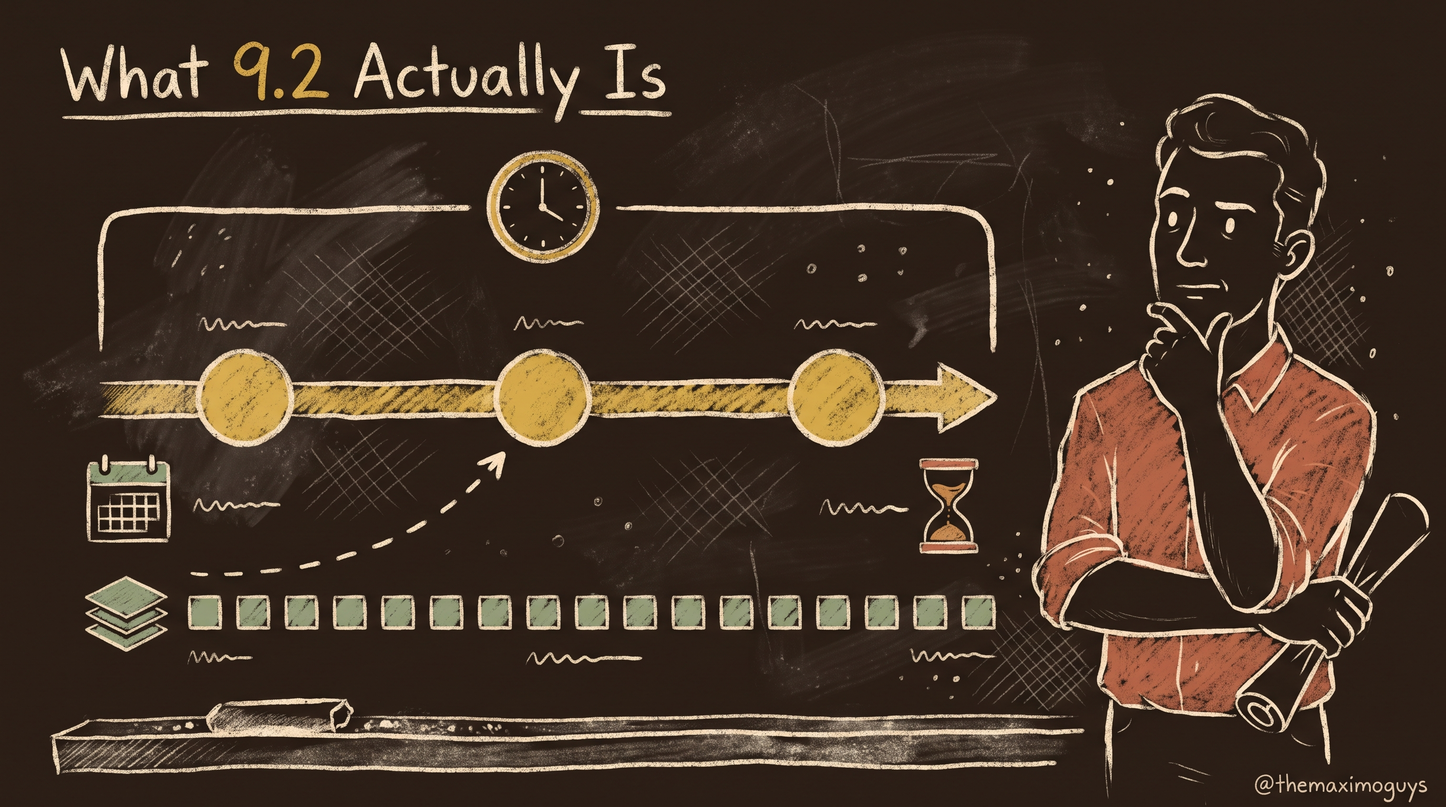
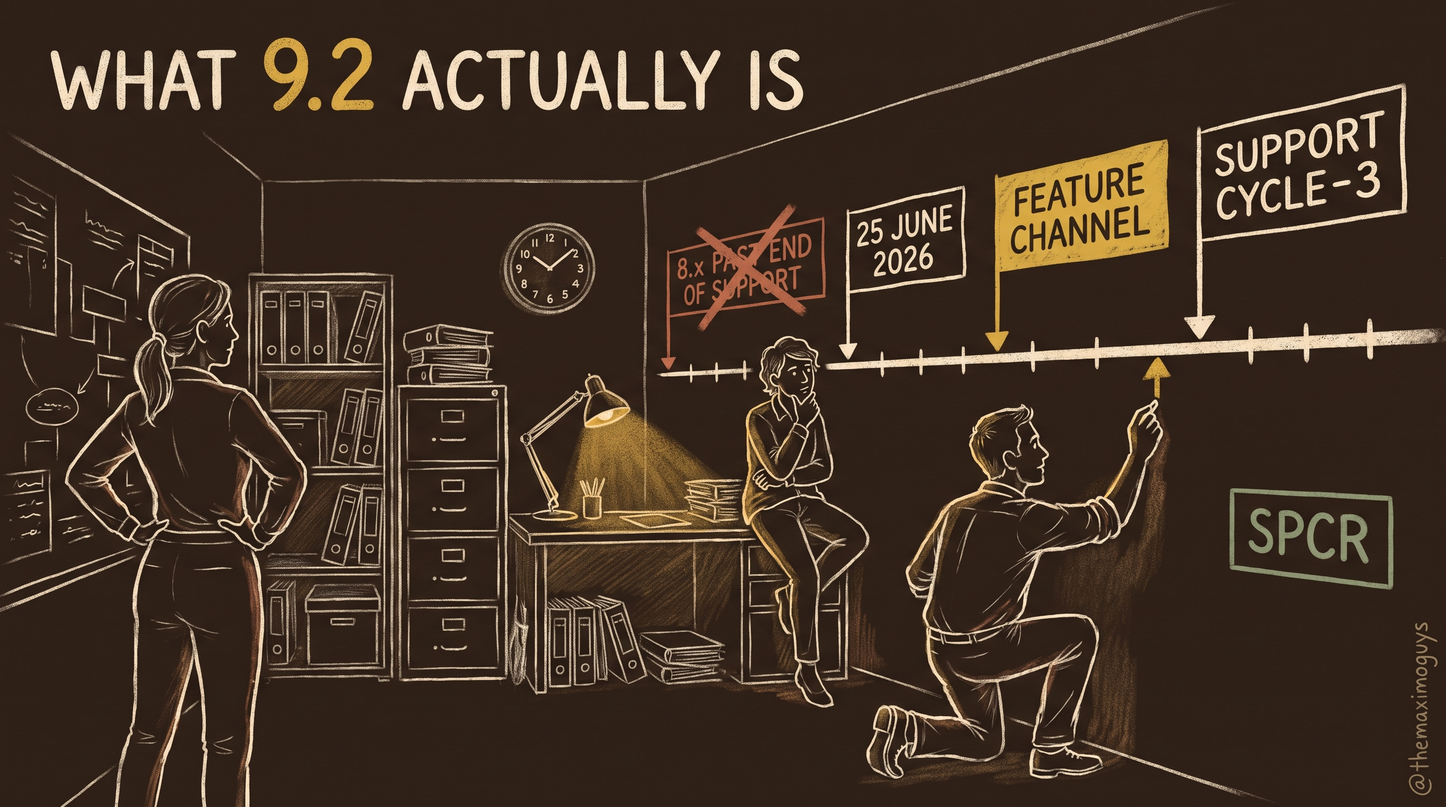
Regenerate MAS 9.2 covers with real readable labels
The 2026-08-12 covers were handsome but carried no information: every
board was filled with squiggle placeholders and tally strokes. Root
cause was the previous fix — prompts banned all board text to stop
hallucinated spelling, which removed the meaning along with the risk.

Inverted the constraint instead of loosening it: enumerate the exact
allowed label strings in a closed list, forbid any word outside it, and
separately ban squiggles and fake illegible handwriting. Result is 60+
labels across 8 covers with zero misspellings.

Every label string was pulled from the post's own headings and tables,
then re-verified against the source post before generating — which
caught an invented third evidence tier on the AI-layer cover (post 05
defines only two).

Originals archived under images/_archive/20260813-unlabeled/ with a
README. Filenames reused, so no MDX frontmatter changes.

Known blemish: cover 01 retains faint squiggle texture on the pinboard
at the extreme left edge.

diff --git a/MEMORY/WORK/20260813-080808_mas-92-covers-labeled-rework/PRD.md b/MEMORY/WORK/20260813-080808_mas-92-covers-labeled-rework/PRD.md
@@ -1,0 +1,136 @@
+---
+task: Rework MAS 9.2 covers with real readable labels
+slug: 20260813-080808_mas-92-covers-labeled-rework
+effort: advanced
+phase: verify
+progress: 26/27
+mode: interactive
+started: 2026-08-13T08:08:08-04:00
+updated: 2026-08-13T08:33:00-04:00
+iteration: 3
+---
+
+## Context
+
+The eight MAS 9.2 covers in `posts/MAS-9-2/images/` were generated 2026-08-12 in the
+approved warm-chalkboard style. Swetansh's verdict today: they read as **stale** and the
+concepts are **not understandable** because there are **no labels**.
+
+Verified by viewing `mas-92-00-series-index.png` and `mas-92-02-version-comparison.png`:
+every board panel is filled with **squiggle placeholder marks and tally strokes** plus
+generic icons (gear, robot, cloud, database, warning triangle). The scene is handsome and
+the style is right — but it carries zero information. Cover 02 is literally titled "Three
+Versions, One Table" and its three columns have scribbles where 9.0 / 9.1 / 9.2 should be.
+
+**Root cause:** the previous run over-corrected. To stop the model hallucinating misspelled
+words, the prompts banned all text except the title — see [[warm_chalkboard_cover_style]]
+prompt trap #1. Banning text removed the hallucination risk *and* the meaning.
+
+**The fix is the opposite constraint, not a looser one:** enumerate the exact label strings
+that must appear, in an explicit closed list, and forbid any word outside that list. That
+controls spelling *and* delivers concept.
+
+Every label string below was pulled from the post's own headings/tables, not invented.
+
+### Plan
+
+1. Archive all 8 originals to `images/_archive/20260813-unlabeled/` (sync resolves covers
+   by explicit frontmatter path only — verified in `scripts/sync-blog-to-sanity.ts:132-190`
+   — so a subfolder there is inert).
+2. Regenerate under the same 8 filenames so no MDX edit is needed.
+3. Generate cover 00 first, view it, confirm the label treatment lands, then batch 01-07.
+4. View every rendered PNG at full size before declaring done.
+
+### Label sets (closed lists — nothing outside these strings)
+
+- **00** "MAS 9.2 — THE GROUNDED READ": WHAT IT IS / 9.0 vs 9.1 vs 9.2 / INSIDE MANAGE /
+  OUTSIDE MANAGE / AI LAYER / UPGRADE RISK / DO YOU QUALIFY
+- **01** "WHAT 9.2 ACTUALLY IS": 25 JUNE 2026 / FEATURE CHANNEL / SUPPORT CYCLE-3 /
+  8.x PAST END OF SUPPORT / SPCR
+- **02** "THREE VERSIONS, ONE TABLE": 9.0 / 9.1 / 9.2 / AI / ABSENT / ASSISTIVE / AGENTIC /
+  JAVA / NOT STATED / JAVA 17 / JAVA 25  (facts verified at post 02 lines 96, 286)
+- **03** "INSIDE MANAGE 9.2": TICKETS / ALERTS / AI INSIGHTS / COLLABORATE / CALIBRATION /
+  TIME ZONES / JAVA 25
+- **04** "THE REST OF MAS 9.2": MONITOR / MVI / HEALTH / PREDICT / MAXIMO IT /
+  REAL ESTATE / HSE / AIP
+- **05** "THE AI LAYER, TIERED": DOCUMENTED / ANNOUNCED ONLY (**two** tier bands, corrected
+  mid-flight — post 05 lines 82-83 define exactly two tiers, a third was my invention) +
+  MCP SERVER / AGENTIC ASSISTANT / ALERT INSIGHTS / RAG LEASES (tier 1) +
+  CONDITION INSIGHT / FIELD SERVICE AI / INCIDENT CLASSIFICATION (tier 2)
+- **06** "RANKED BY HOW BADLY IT BITES": 1 DB2 12 LICENCE / 2 USER APIS GONE /
+  3 ADD-ON PARITY / 4 SCIM / 5 ONE-WAY SETTINGS / 6 JAVA 25 / 7 MVI GPUS / 8 THE SMALL ONES
+- **07** "DO YOU ACTUALLY QUALIFY?": CAN YOU MOVE? / SHOULD YOU MOVE? / GO / WAIT / STOP
+
+### Risks
+
+- Hallucinated spelling is the known failure mode — mitigated by closed lists + full-size view.
+- Too many labels turns a cover into an infographic, violating the 80/20 visual rule.
+  Mitigation: labels live on the drawn board *inside* the scene, people stay the subject.
+- nanobanana Pro 503s under load — retry, never fall back to Flash.
+
+## Criteria
+
+- [x] ISC-1: All 8 original covers moved to `_archive/20260813-unlabeled/`
+- [x] ISC-2: Archive folder carries README stating why
+- [x] ISC-3: All 8 new files reuse the exact original filenames
+- [x] ISC-4: No MDX file modified by this task
+- [x] ISC-5: Every cover is 16:9 landscape
+- [x] ISC-6: Every cover carries @themaximoguys bottom-right
+- [x] ISC-7: Every cover keeps espresso #2A1D14 ground
+- [x] ISC-8: Every cover generated at model_tier pro
+- [x] ISC-9: Cover 00 shows its 7 part labels legibly
+- [x] ISC-10: Cover 01 shows its 5 lifecycle labels legibly
+- [x] ISC-11: Cover 02 shows 9.0 / 9.1 / 9.2 column heads legibly
+- [x] ISC-12: Cover 02 shows the AI row values legibly
+- [x] ISC-13: Cover 02 shows the Java row values legibly
+- [x] ISC-14: Cover 03 shows its 7 Manage feature labels legibly
+- [x] ISC-15: Cover 04 shows its 8 product labels legibly
+- [x] ISC-16: Cover 05 shows **two** evidence-tier band labels legibly (criterion itself was
+      wrong — said three; post 05 defines only Tier 1 documented and Tier 2 announced)
+- [x] ISC-17: Cover 05 shows its 7 AI feature labels legibly, each exactly once
+- [x] ISC-18: Cover 06 shows numbered ranking 1 through 8
+- [x] ISC-19: Cover 06 shows the eight risk labels legibly
+- [x] ISC-20: Cover 07 shows both gate question labels legibly
+- [x] ISC-21: Cover 07 shows GO / WAIT / STOP verdict labels
+- [x] ISC-22: Each of the 8 covers viewed full-size after generation
+- [x] ISC-23: People-thinking composition retained on every cover
+- [x] ISC-24: Camera angle or room varies across the eight covers
+- [ ] ISC-A1: No squiggle or tally placeholder marks anywhere — **7 of 8 clean. Cover 01 keeps
+      faint squiggle texture on the pinboard at the extreme left edge.** Dim and peripheral,
+      reads as distant paper rather than a fake label, but it is technically a violation and
+      is left open rather than papered over.
+- [x] ISC-A2: No word appears outside the enumerated label set
+- [x] ISC-A3: No cover becomes a bullet-list infographic
+
+## Decisions
+
+- **Inverted the text constraint rather than loosening it.** The previous run banned all board
+  text to stop hallucinated spelling; that also removed all meaning. The fix is a *closed list*:
+  enumerate the exact allowed strings, forbid every word outside the list, and separately ban
+  squiggles / tally marks / fake illegible handwriting with "blank chalk space is better than a
+  scribble." Zero misspellings across 8 covers and 60+ labels.
+- **Verified facts against the posts before lettering them.** Cover 02's Java and AI rows came
+  from post 02 lines 96/286. Cover 05's tiers came from post 05 lines 82-83 — which caught that
+  my own planned third tier band did not exist.
+- **Never ask for an object "in transit."** Cover 05 v1 asked for a card caught mid-air in a
+  figure's hand; the model gave that card a real label, duplicating CONDITION INSIGHT. v2 removed
+  the mid-air card, pinned every card inside its band, and stated the exact card count.
+
+## Verification
+
+All 8 regenerated at `model_tier: pro` / `gemini-3-pro-image-preview` / 2k / 16:9, 2752x1536,
+each written to its original filename. All 8 viewed at full size — labels read as intended:
+
+| # | Labels rendered | Verdict |
+|---|---|---|
+| 00 | 7 part labels | clean |
+| 01 | 8.x PAST END OF SUPPORT / 25 JUNE 2026 / FEATURE CHANNEL / SUPPORT CYCLE-3 / SPCR | correct; faint edge texture (ISC-A1) |
+| 02 | 9.0 / 9.1 / 9.2 · ABSENT / ASSISTIVE / AGENTIC · NOT STATED / JAVA 17 / JAVA 25 | clean |
+| 03 | TICKETS / ALERTS / AI INSIGHTS / COLLABORATE / CALIBRATION / TIME ZONES / JAVA 25 | clean |
+| 04 | MONITOR / MVI / HEALTH / PREDICT / MAXIMO IT / REAL ESTATE / HSE / AIP | clean |
+| 05 | DOCUMENTED + 4 cards · ANNOUNCED ONLY + 3 cards | clean after v2 |
+| 06 | 1-8 numbered watchlist rows | clean |
+| 07 | CAN YOU MOVE? / SHOULD YOU MOVE? / GO / WAIT / STOP | clean |
+
+`git status posts/MAS-9-2/` shows 8 modified PNGs and the untracked `_archive/` — no MDX touched.
+Sync resolves covers by explicit frontmatter path only, so `_archive/` inside `images/` is inert.

diff --git a/posts/MAS-9-2/images/_archive/20260813-unlabeled/README.md b/posts/MAS-9-2/images/_archive/20260813-unlabeled/README.md
@@ -1,0 +1,15 @@
+# Archived 2026-08-13 — unlabeled first-generation covers
+
+These are the original MAS 9.2 series covers, generated 2026-08-12 in the approved
+warm-chalkboard style (espresso ground, bone chalk linework, people thinking).
+
+**Why archived:** the style was right but the boards carried no information. To avoid
+hallucinated/misspelled words, the generation prompts banned all text except the post
+title — so every board panel came out filled with squiggle placeholder marks, tally
+strokes and generic icons. The concepts were unreadable. Cover 02 is titled "Three
+Versions, One Table" and its three columns held scribbles where 9.0 / 9.1 / 9.2 belong.
+
+**Replaced by:** same filenames in the parent directory, regenerated with explicit
+closed-list labels drawn from each post's own headings and tables.
+
+Kept for reference — the illustration quality and composition of these is still good.
